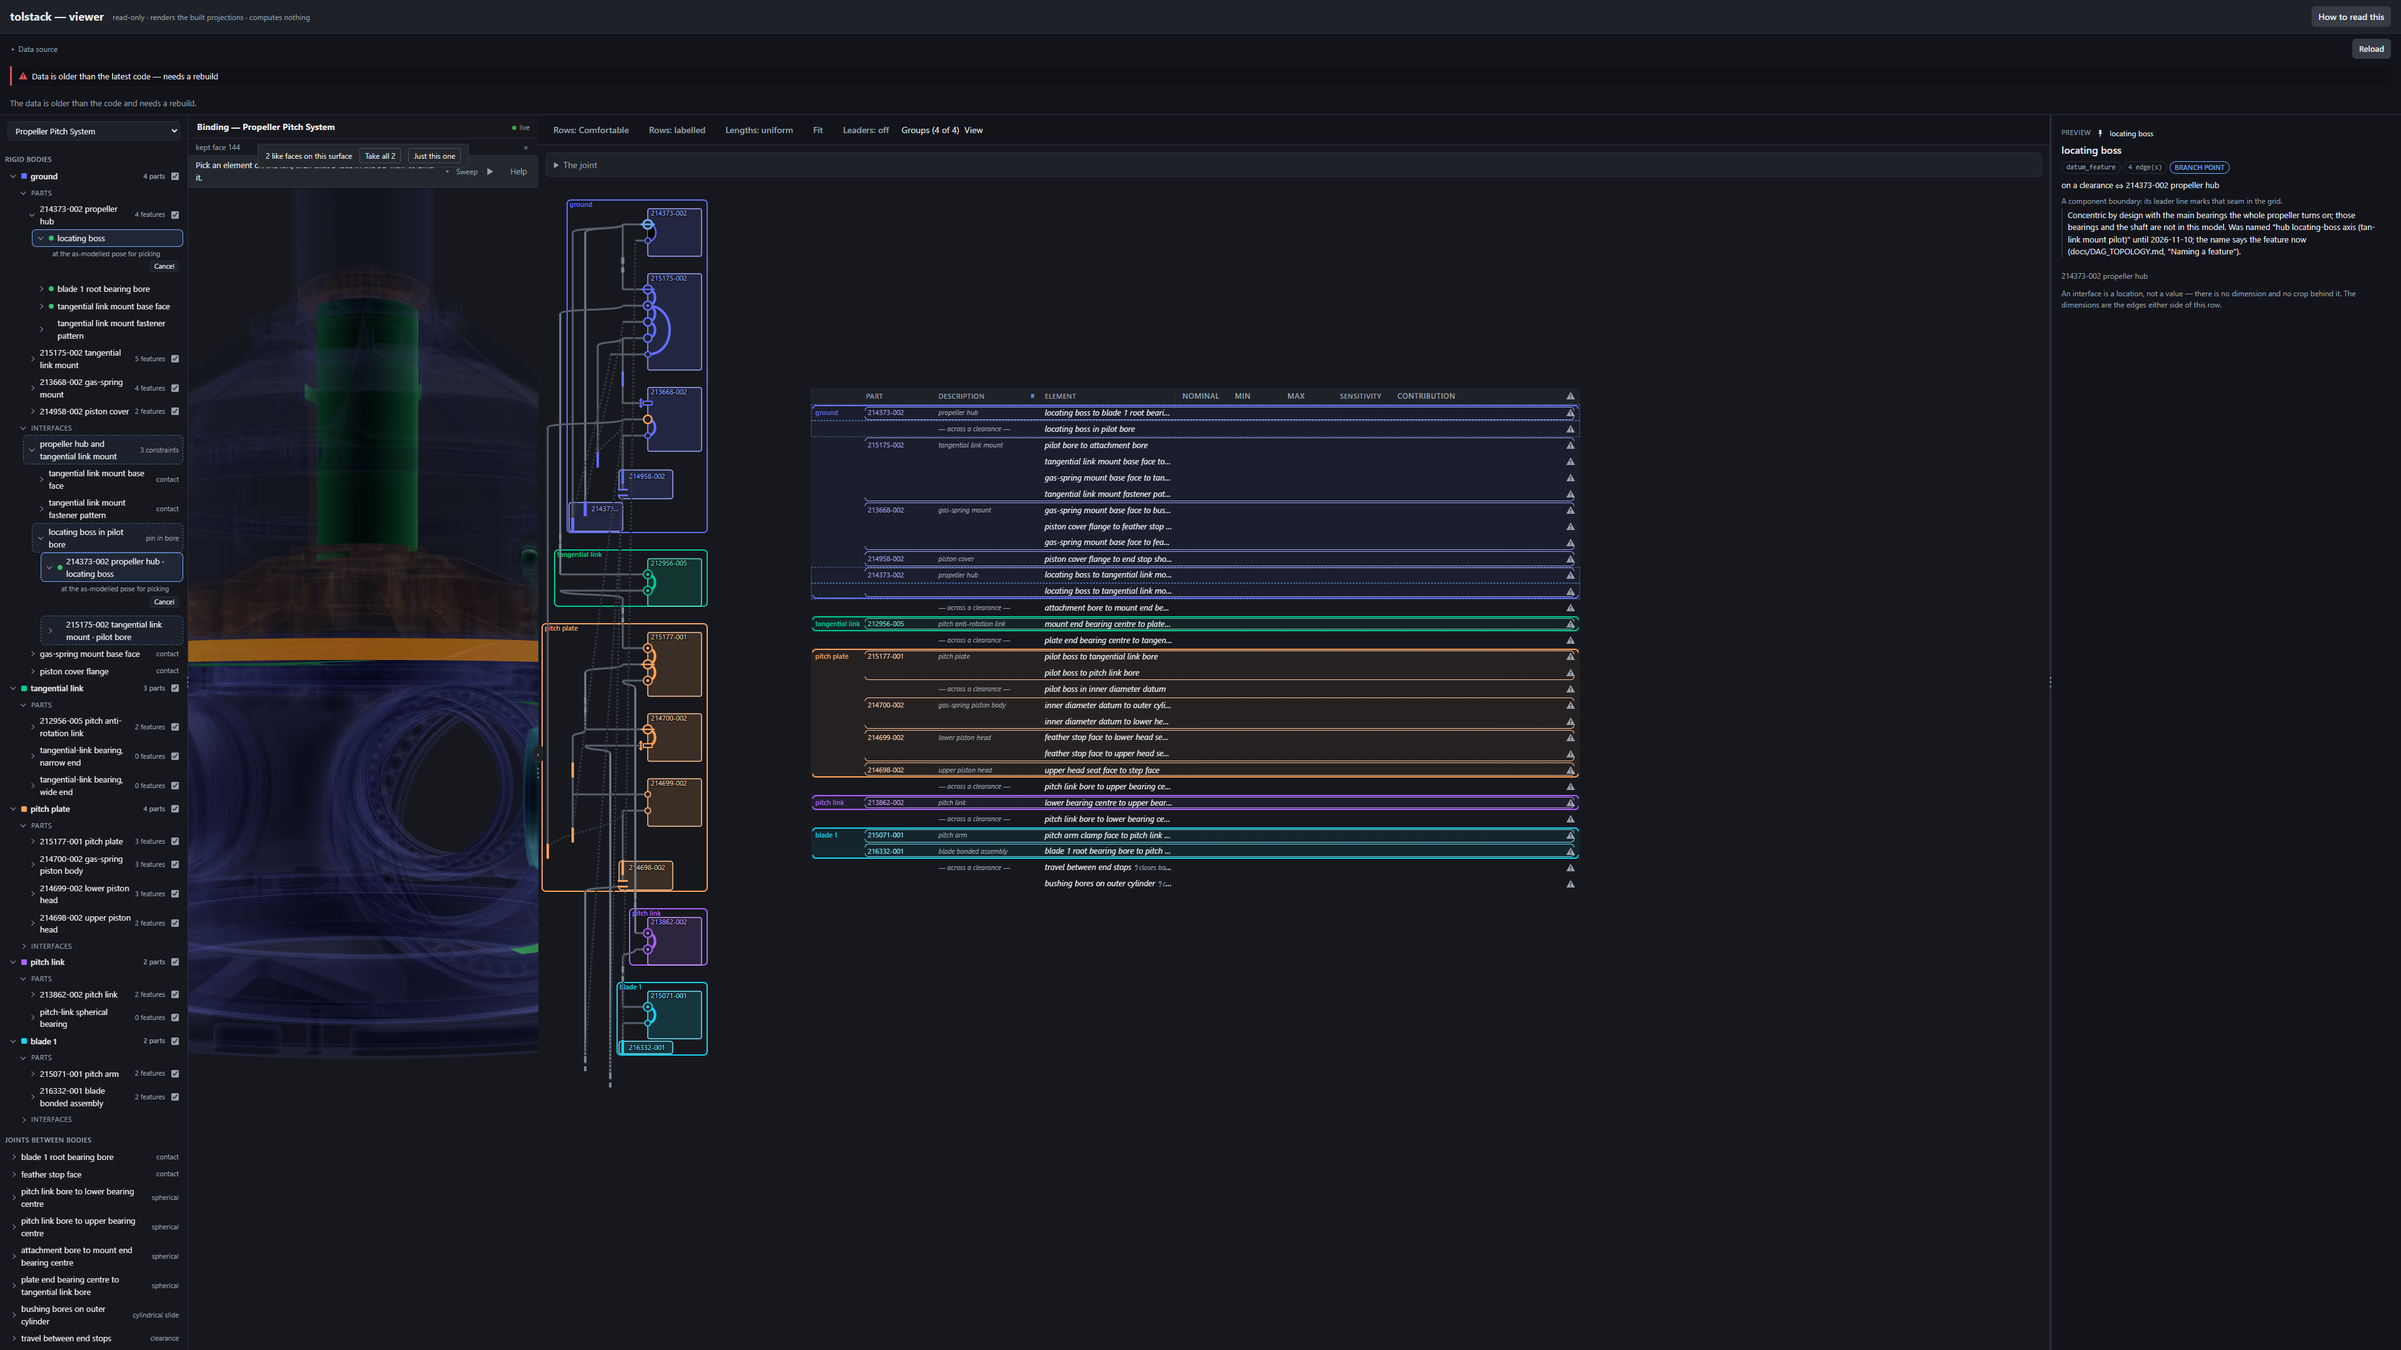
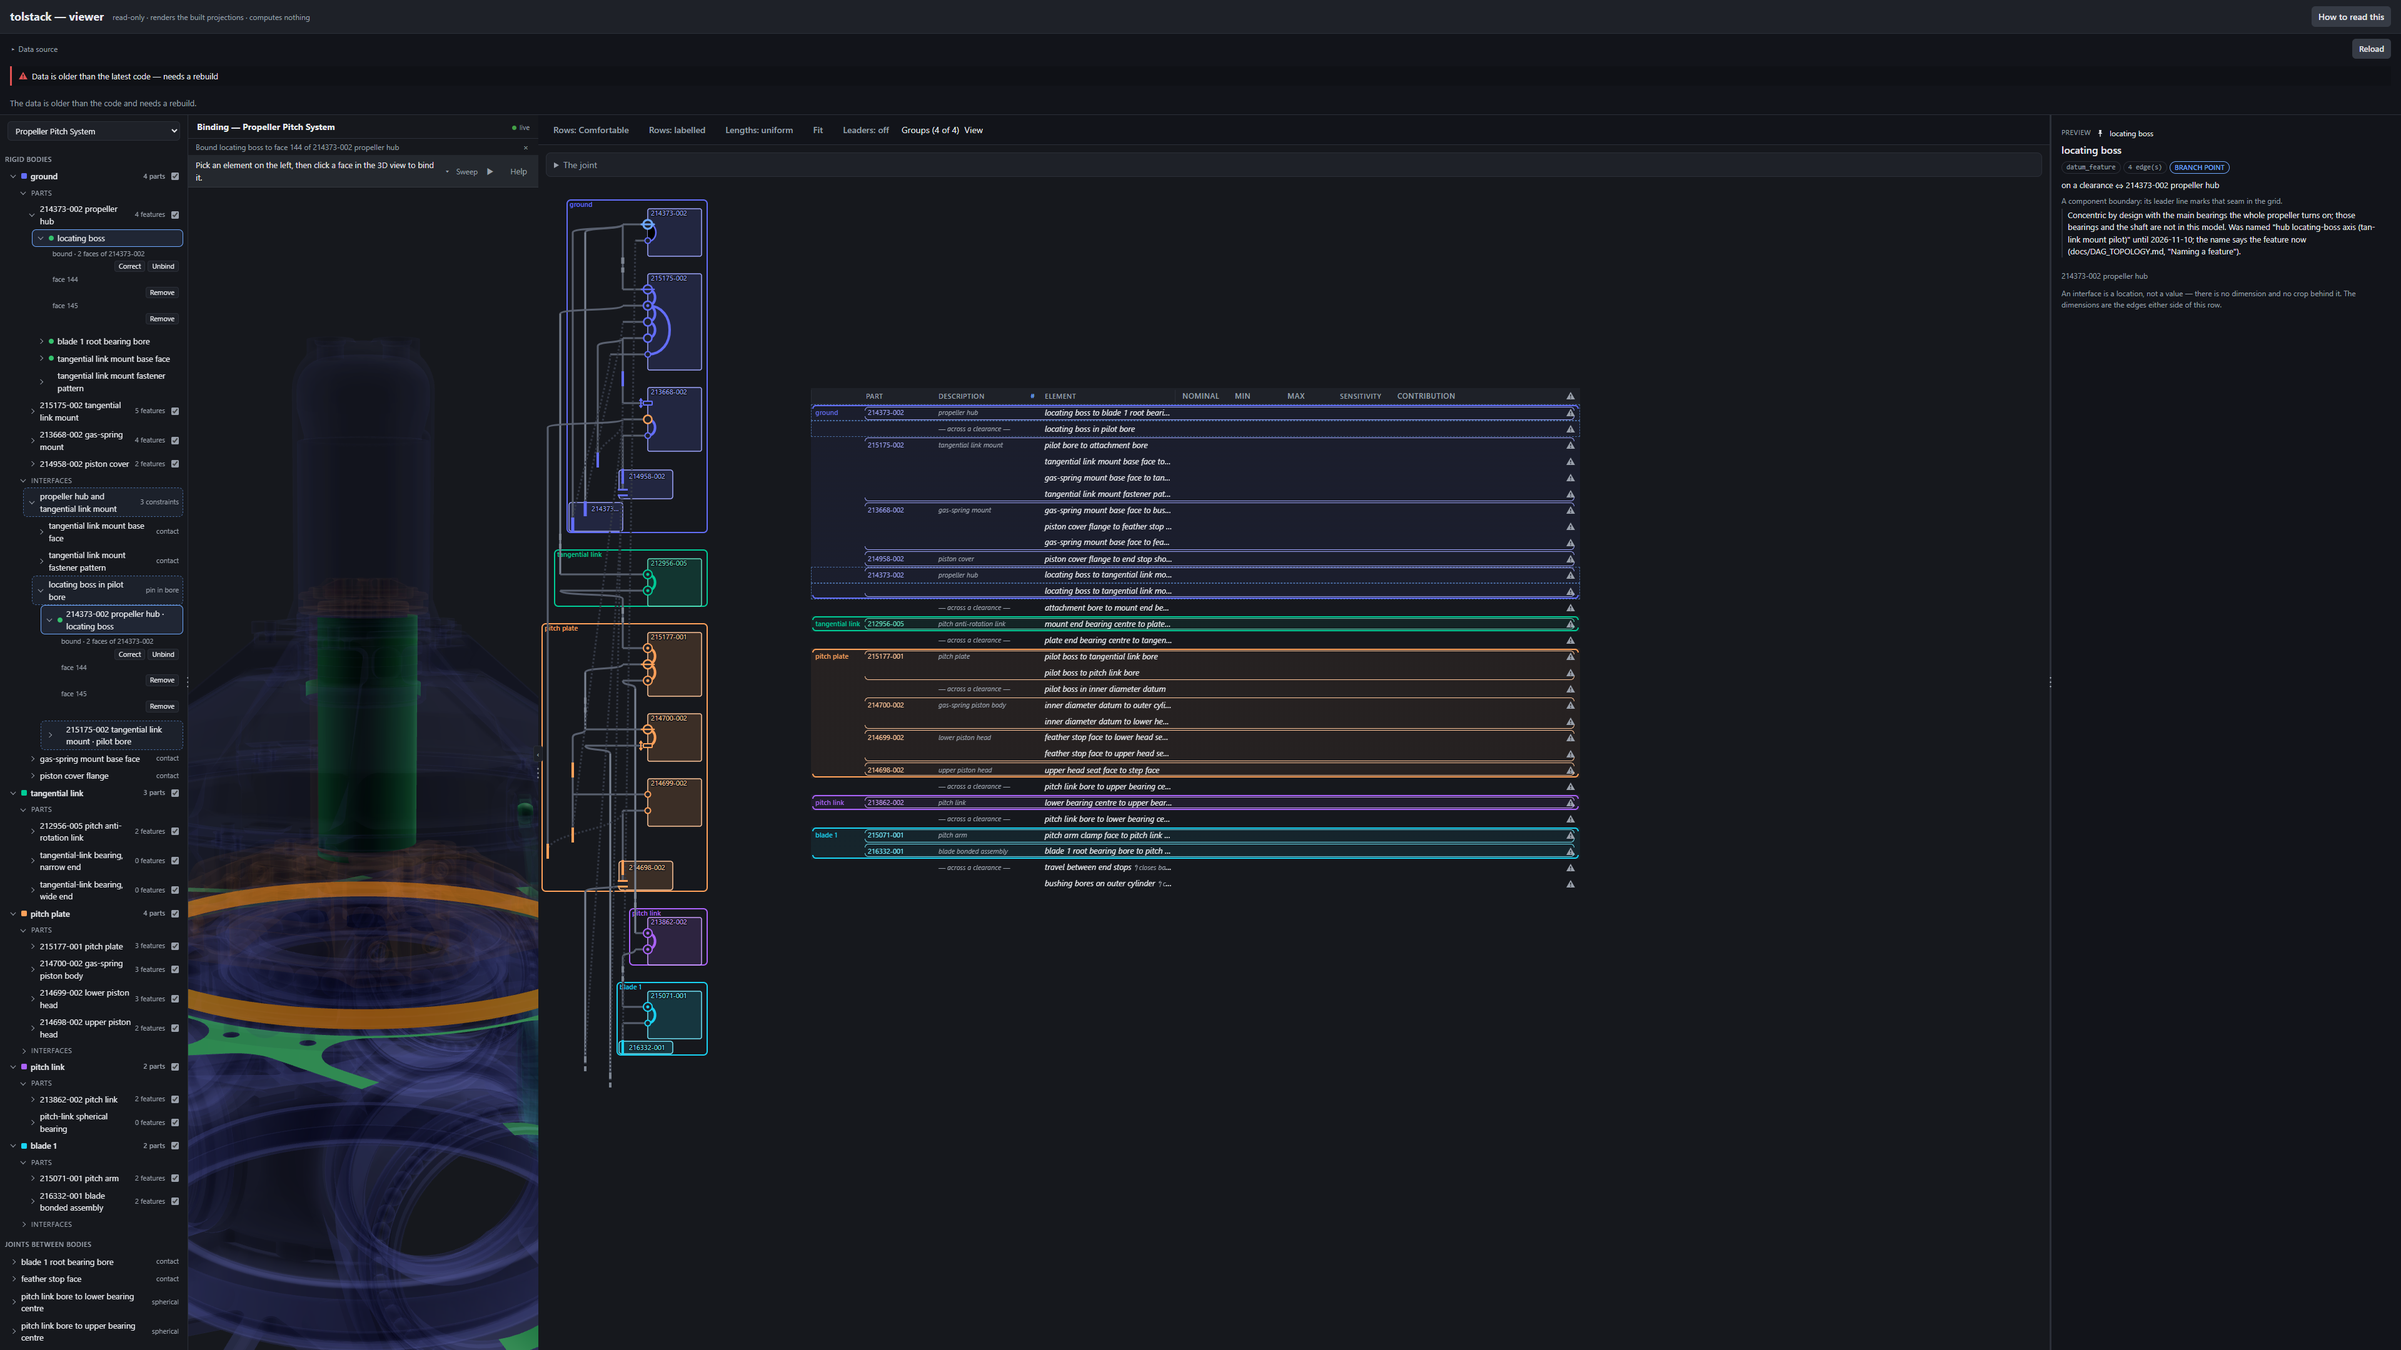
lesson: the real log's fold, the 15 bindings, fits before/after, the DoD run; census re-pinned for the sweep/offer guard

Changed region(s): [[0.0, 0.1861, 0.25, 1.0], [0.0938, 0.0931, 0.1875, 0.1241]]

diff --git a/docs/sessions/lessons/LESSONS_20261112_a_feature_is_bound_once_to_a_set_of_faces.md b/docs/sessions/lessons/LESSONS_20261112_a_feature_is_bound_once_to_a_set_of_faces.md
@@ -1,0 +1,235 @@
+# Lessons — a_feature_is_bound_once_to_a_set_of_faces (2026-11-13)
+
+**`fits.json` keeps schema `/v0`.** Every field `C:\workspace\linkage` reads
+(`event_id`, `mesh`, `local.surface`, `occurrences[].geometry`,
+`occurrences[].instance_path`) keeps its place and meaning. A row is now a
+bound **feature**. New fields sit beside the old ones: `feature`, `event_ids`
+and `geometry_keys`; `geometry_key` is the set's first face. `stack_key` and
+`direction` stay only on a row whose feature stands on one old edge-end
+event. Linkage was not touched.
+
+## The real log, folded read-only
+
+Summary line (`FeatureIdentityProjection.summary_line`, from
+`data/inbox/feature-identity/` on 2026-11-13, nothing written there):
+
+> 9 feature(s) bound, 0 holding a set, 1 disagreement(s), 0 orphan(s); 78 old event(s) read through
+
+All 53 open proposals fold through to 28 features and stay open.
+
+### Every one of the 15 bindings
+
+| seq | old key (model / edge / end) | face | feature | faces the feature holds | state |
+|---|---|---|---|---|---|
+| 56 | v1 / pitch_link_length / to | 140 | pitch_link@pitch_link_upper_sphere_centre | 140 | bound |
+| 57 | v1 / tan_link_length / from | 64 | tan_link_212956_005@tan_link_lower_sphere_centre | 64 | bound |
+| 58 | v1 / tan_link_length / to | 0 | tan_link_212956_005@tan_link_upper_sphere_centre | 0 | bound |
+| 59 | v1 / pitch_link_length / from | 104 | pitch_link@pitch_link_lower_sphere_centre | 104 | bound |
+| 63 | v1 / pitch_plate_slide_bushings_to_piston_body / to | 166 | gas_spring_piston_214700_002@gas_spring_piston_body_od | 166 | bound |
+| 64 | v1 / pitch_plate_slide_bushings_to_piston_body / from | 53 | gas_spring_mount_213668_002@gas_spring_mount_bushing_bore | 53 | bound |
+| 65 | v1 / hub_to_pitch_plate_spindle_coaxiality / from | 3460 | hub@hub_spindle_bore_axis | 3460, 144 | **disagreement** |
+| 67 | v1 / hub_to_pitch_plate_spindle_coaxiality / to | 487 | pitch_plate_215177_001@pitch_plate_spindle_bore_axis | 487 | bound |
+| 68 | v1 / pitch_link_length / to | 140 | pitch_link@pitch_link_upper_sphere_centre | 140 | bound (repeats 56) |
+| 69 | v1 / pitch_link_length / from | 104 | pitch_link@pitch_link_lower_sphere_centre | 104 | bound (repeats 59) |
+| 70 | v1 / tan_link_length / from | 64 | tan_link_212956_005@tan_link_lower_sphere_centre | 64 | bound (repeats 57) |
+| 71 | v1 / tan_link_length / to | 0 | tan_link_212956_005@tan_link_upper_sphere_centre | 0 | bound (repeats 58) |
+| 76 | v1 / hub_spindle_to_tan_link_mount_face / to | 526 | hub@tan_link_mount_hub_face | 526 | bound |
+| 77 | v2 / hub_boss_in_tan_link_mount_pilot / from | 144 | hub@hub_spindle_bore_axis | 3460, 144 | **disagreement** |
+| 78 | v1 / hub_blade_axis_offset / to | 2564 | hub@hub_blade1_root_bearing_bore | 2564 | bound |
+
+### The one disagreement Jeff must settle
+
+**The hub's locating boss (`hub@hub_spindle_bore_axis`).** Two bindings land
+on it:
+
+- 2026-11-06, v1's spindle coaxiality start: **face 3460**, a Ø95 cylinder
+  (r 47.5; 3461 is its other half).
+- 2026-11-12, v2's pilot fit start: **face 144**, a Ø215.9 cylinder
+  (r 107.95; 145 is its other half).
+
+The two are coaxial but are not one surface. One is the bore and one is the
+boss OD. The node is an axis, and either face realises it. Which one is the
+datum is Jeff's call. Until he presses **Keep** the feature reads suggested,
+and the fitter leaves it unresolved (reason `disagreement`).
+
+## The fitted nominals, before and after
+
+"Before" is integration's `fit_bound_features.py`, run on the same log into
+scratch. The main checkout's `fits.json` was an empty build (0 bindings), so
+it was no baseline. "After" is this tree's fitter, also run into scratch.
+
+| old binding (edge, end, face) | feature | after | max change |
+|---|---|---|---|
+| v2 hub_boss_in_tan_link_mount_pilot from 144 | hub@hub_spindle_bore_axis | unresolved: disagreement | -- |
+| hub_blade_axis_offset to 2564 | hub@hub_blade1_root_bearing_bore | cylindrical, [2564] | 0 |
+| hub_spindle_to_tan_link_mount_face to 526 | hub@tan_link_mount_hub_face | planar, [526] | 0 |
+| hub_to_pitch_plate_spindle_coaxiality from 3460 | hub@hub_spindle_bore_axis | unresolved: disagreement | -- |
+| hub_to_pitch_plate_spindle_coaxiality to 487 | pitch_plate@pitch_plate_spindle_bore_axis | cylindrical, [487] | 0 |
+| pitch_link_length to 140 | pitch_link@upper_sphere_centre | spherical, [140] | 0 |
+| pitch_link_length from 104 | pitch_link@lower_sphere_centre | spherical, [104] | 0 |
+| pitch_plate_slide_bushings_to_piston_body to 166 | piston@body_od | cylindrical, [166] | 0 |
+| pitch_plate_slide_bushings_to_piston_body from 53 | gas_spring_mount@bushing_bore | cylindrical, [53] | 0 |
+| tan_link_length from 64 | tan_link@lower_sphere_centre | spherical, [64] | 0 |
+| tan_link_length to 0 | tan_link@upper_sphere_centre | spherical, [0] | 0 |
+
+- **Totals.** Before: 11 bindings, 11 fitted. After: 10 features, 9 fitted, 1
+  unresolved (the disagreement).
+- **Unchanged.** Nine nominals are identical. Linkage's four sphere centres
+  are among them.
+- **Not fitted.** The two hub faces now in disagreement are not fitted. They
+  were fitted before as two separate rows on one feature, which is the
+  conflict this handoff exists to stop.
+- **Not written to the main checkout.** The fit was not written to the main
+  checkout's projections. That writes linkage's input from an unmerged
+  branch; it is the rebuild rail's job after the merge.
+- **The kinematic study was not rebuilt here.** `build_kinematic_projection.py`
+  does not read the identity stream (`grep` finds no `feature_identity` or
+  `fits.json` in it), so this change cannot move it. The review's
+  rebuild-first step builds it.
+- **One fit through a set, on real geometry.** `test_fit_bound_features.py`
+  binds both halves of the pitch plate's spindle bore (439 and 465, one
+  surface, not touching). It now gets one row and one cylinder, at r 16.5,
+  along assembly Z.
+
+## The DoD run (scratch, v2, 3840×2160)
+
+`node tests/debug_feature_bound_once_20261113.mjs --keep`. It uses the
+previous handoff's mounts on a private port, and `/tolstack/data/` is a
+scratch copy:
+
+- the viewer projections;
+- the topology projection rebuilt from this tree (features carry `identity`);
+- the served log folded from a copy of the real log.
+
+The pane's folder grant is its real FSA path over a fake handle backed by
+the scratch copy. The scratch copy (`data/scratch/feature_bound_once_20261113`)
+was deleted afterwards. Shots are in
+`docs/sessions/lessons/shots/a_feature_is_bound_once_to_a_set_of_faces/`.
+
+| shot | what it shows |
+|---|---|
+| 01 | The hub boss reads **"2 faces disagree · face 3460 Keep · face 144 Keep"**, status suggested. The disagreement is the real log's own: two old-shape events, so none was created. |
+| 02 | **Keep** on 144: "bound · face 144 of 214373-002". The pane's end view has it bound at all four v2 ends at that node: the pilot fit and three hub dimensions. v1 has four more, including the coaxiality start. The handoff said "five ends"; v2 now has four edges at the node, and v1 adds the fifth. |
+| 03 | **Correct**, then a click on 144: its split half **145 is swept in**, with no question. The body reads "bound · 2 faces", with Remove on each face, and every end carries both faces. |
+| 04 | Gas-spring mount bushing bore, **Correct**, a click on seat face 53. The bar at the top of the pane reads **"4 like faces on this surface · Take all 4 · Just this one"**. 610 (53's other half) is swept; 109 and 628 (the other seat) are offered. |
+| 05 | **Take all 4**: "bound · 4 faces of 213668-002". Both seats are lit in the scene. It was written as one v1 event superseding the old edge-end binding (`supersedes` across shapes). |
+| 06 | A reload with the pane closed: both features read bound. |
+
+Python folds the scratch log afterwards to "10 feature(s) bound, 2 holding a
+set, 0 disagreement(s), 0 orphan(s)".
+
+**Time per write.** Click to body took 13–22 s through the probe's
+HTTP-backed handle, the same order as the 11-12 lesson's 8–22 s. Hub
+classification (3473 faces) is about 1.2 s in node.
+
+**Exploratory click-around: partial.** It covered the probe's flows, hovering
+a set's face lines, and reloads. Not done: a full walk of every feature, and
+filmstrips. No motion changed.
+
+## Decisions not in the handoff
+
+- **v1 events alone decide a feature once one is written.** As soon as any v1
+  `bound` or `retracted` names a feature, the old bindings read through to it
+  are `replaced` and stay in history. Unbinding a v1 binding does not bring
+  the old ones back. Keep, Correct and Remove all write v1.
+- **One cross-shape pointer.** A v1 event may answer, supersede or retract a
+  v0 event, but only one read through to the same feature (`_same_thing`,
+  `_answer_names_its_proposal`). Without it, unbinding or correcting an
+  inherited binding would need an old-shape write.
+- **The shared-surface rule applies only to old events.** Two standing v1
+  bindings with different face sets disagree, with no surface test, so the
+  browser never needs mesh fits to fold. The surface test needs meshes, so
+  Python computes the pairs and the served log carries them (`same_surface`).
+  The browser works out the read-through itself from the topology
+  projection's `model.features[].identity`.
+- **`model_view` keys features.** `feature_identity_topology_id` is the
+  feature-level twin of `identity_topology_id`: a node v2 shares with v1, on
+  a part v1 also puts there, is keyed under v1.
+- **Flip** on a feature-keyed binding becomes two events: bind on the other
+  end's feature, then retract here.
+- **`owner_not_in_set` stays edge-keyed (v0).** It names a dimension, not an
+  end. It is carried on its edge's row in the end view.
+- **The group offer sits at the top of the pane.** Embedded, the pane's iframe
+  runs below the page fold, so a bottom bar (where the toast is) was
+  invisible. While up, it covers the pane's one-line instruction.
+
+## Things that cost time
+
+- **The pane's publish path re-folded without the topologies.** After every
+  write it adopted a fold of the re-read log (`publishIdentity`) but left
+  `identityEvents` stale, so a Keep wrote and nothing changed on screen. Every
+  place that reads the log must set `identityEvents` and fold with
+  `foldOpts()`.
+- **`AA.faceVertexRanges` returns `{start, count}`, not pairs.** My
+  `AA.facesTouch` read `r[0]`/`r[1]`, touched nothing, and every split half
+  came back *offered*. The hub re-pick then waited, for 480 s, on an offer
+  the probe never answered. Python and node agreed once fixed: hub 144→145
+  swept; mount 53→610 swept, 109/628 offered; plate 487/521 offered. A fast
+  check now pins sweep vs offer (witnessed).
+- **A re-pick of the face already bound was refused** ("already bound").
+  It now binds when the face's surface brings faces the set lacks.
+- **Two classifications of one 3473-face part ran at once** (arm, then
+  click). They are now de-duplicated (`faceClassesPending`).
+- **`git checkout <file>` to undo a hand mutation also discards your
+  uncommitted edits in that file.** I lost and restored (from a backup) the
+  `FACE_VERDICTS` change. Back the file up, or commit first.
+- **The viewer fast tier refuses inside a witness shadow tree** when the main
+  checkout's projections predate the tree ("projection NOT paired"). The
+  `fast__the-page-reads-the-log…` witness therefore read NOT WITNESSED
+  ("red before the mutation"). I applied its mutation by hand to the
+  worktree's fast tier (no `[real]`), and exactly that guard went red.
+- **`as_dict` reported `features: []` for a fold given no models.** JS read an
+  empty list as "has features" and called the end view where the fold module
+  isn't loaded. The projection now reports features only when it had models
+  (`featured`).
+
+## What still stands in the way of "bind them all now"
+
+**One sentence for Jeff:** bind them all now, but first press **Keep** on the
+hub's locating boss (face 3460, the Ø95 bore, or face 144, the Ø215.9 boss),
+because it is the one place the old picks disagree. Nothing else is in the
+way once this branch merges and the projections are rebuilt.
+
+Filed: `docs/issues/ISSUE_20261113_a_hole_pattern_is_a_feature_of_n_like_faces_and_has_no_fit.md`
+(Jeff's third case, the pattern fit, fenced out by the handoff).
+
+## Tests run
+
+- **Default pytest tier.** `C:/workspace/tolstack/venv-win/Scripts/python.exe -m pytest -q -p no:cacheprovider`,
+  run in the worktree, single process: **4 failed, 1973 passed, 1 skipped**
+  in 469 s. The time is in the ledger, inside budget. After that run I fixed
+  two of the failures, and a rerun of their modules is green:
+  - the guard census was not re-pinned for the new annotate check
+    (`DECLARED_GUARDS` annotate 315 / `d77c397073b0`);
+  - a leftover `tmp/mutation-witness-*` from my own witness runs broke one
+    shadow-lock test.
+
+  Two failures remain, and neither comes from this branch:
+  - `tests/test_viewer_js_suite.py`, the documented worktree red (no
+    projection in the worktree's `data/`);
+  - `test_two_different_repo_roots_both_still_succeed`, which is MAX_PATH on
+    older handoffs' shot names. It is already filed as
+    `ISSUE_20261104_a_lesson_screenshot_name_overflows_max_path_in_the_shadow_concurrency_test.md`,
+    and it passed in my first full run.
+
+  The skip is `test_fit_bound_features.py`'s uninstalled re-extraction.
+- **Fast node tiers.** `node apps/viewer/run_tests.cjs`: 568/568, `[real]`
+  skipped (projections predate this tree). `node apps/annotate/run_tests.cjs`:
+  315/315.
+- **Witness `--only`.**
+  - WITNESSED: the new sweep/offer guard, plus three re-pointed annotate
+    anchors (session correction, accept supersedes, pick rejects first).
+  - The re-pointed `fast__the-page-reads-the-log…` came back NOT WITNESSED,
+    because the stale projection made the shadow tier red before mutation.
+    Applied by hand to the worktree's fast tier, it turns exactly its guard
+    red.
+  - The re-pointed browser anchor (`a click binds face 1 at the end's own
+    direction`) was not run. It needs the browser tier against projections
+    built from this tree.
+- **Browser runner `--only`: none run.** No browser suite was added or
+  changed.
+
+**The review owns these:** the whole browser tier and the witness
+`--changed-since` gate. **Rebuild the projections first.** The topology
+projection must carry `model.features[].identity`; without it the browser
+keys v2-only events under v2, and the hub boss's two models stop meeting.
